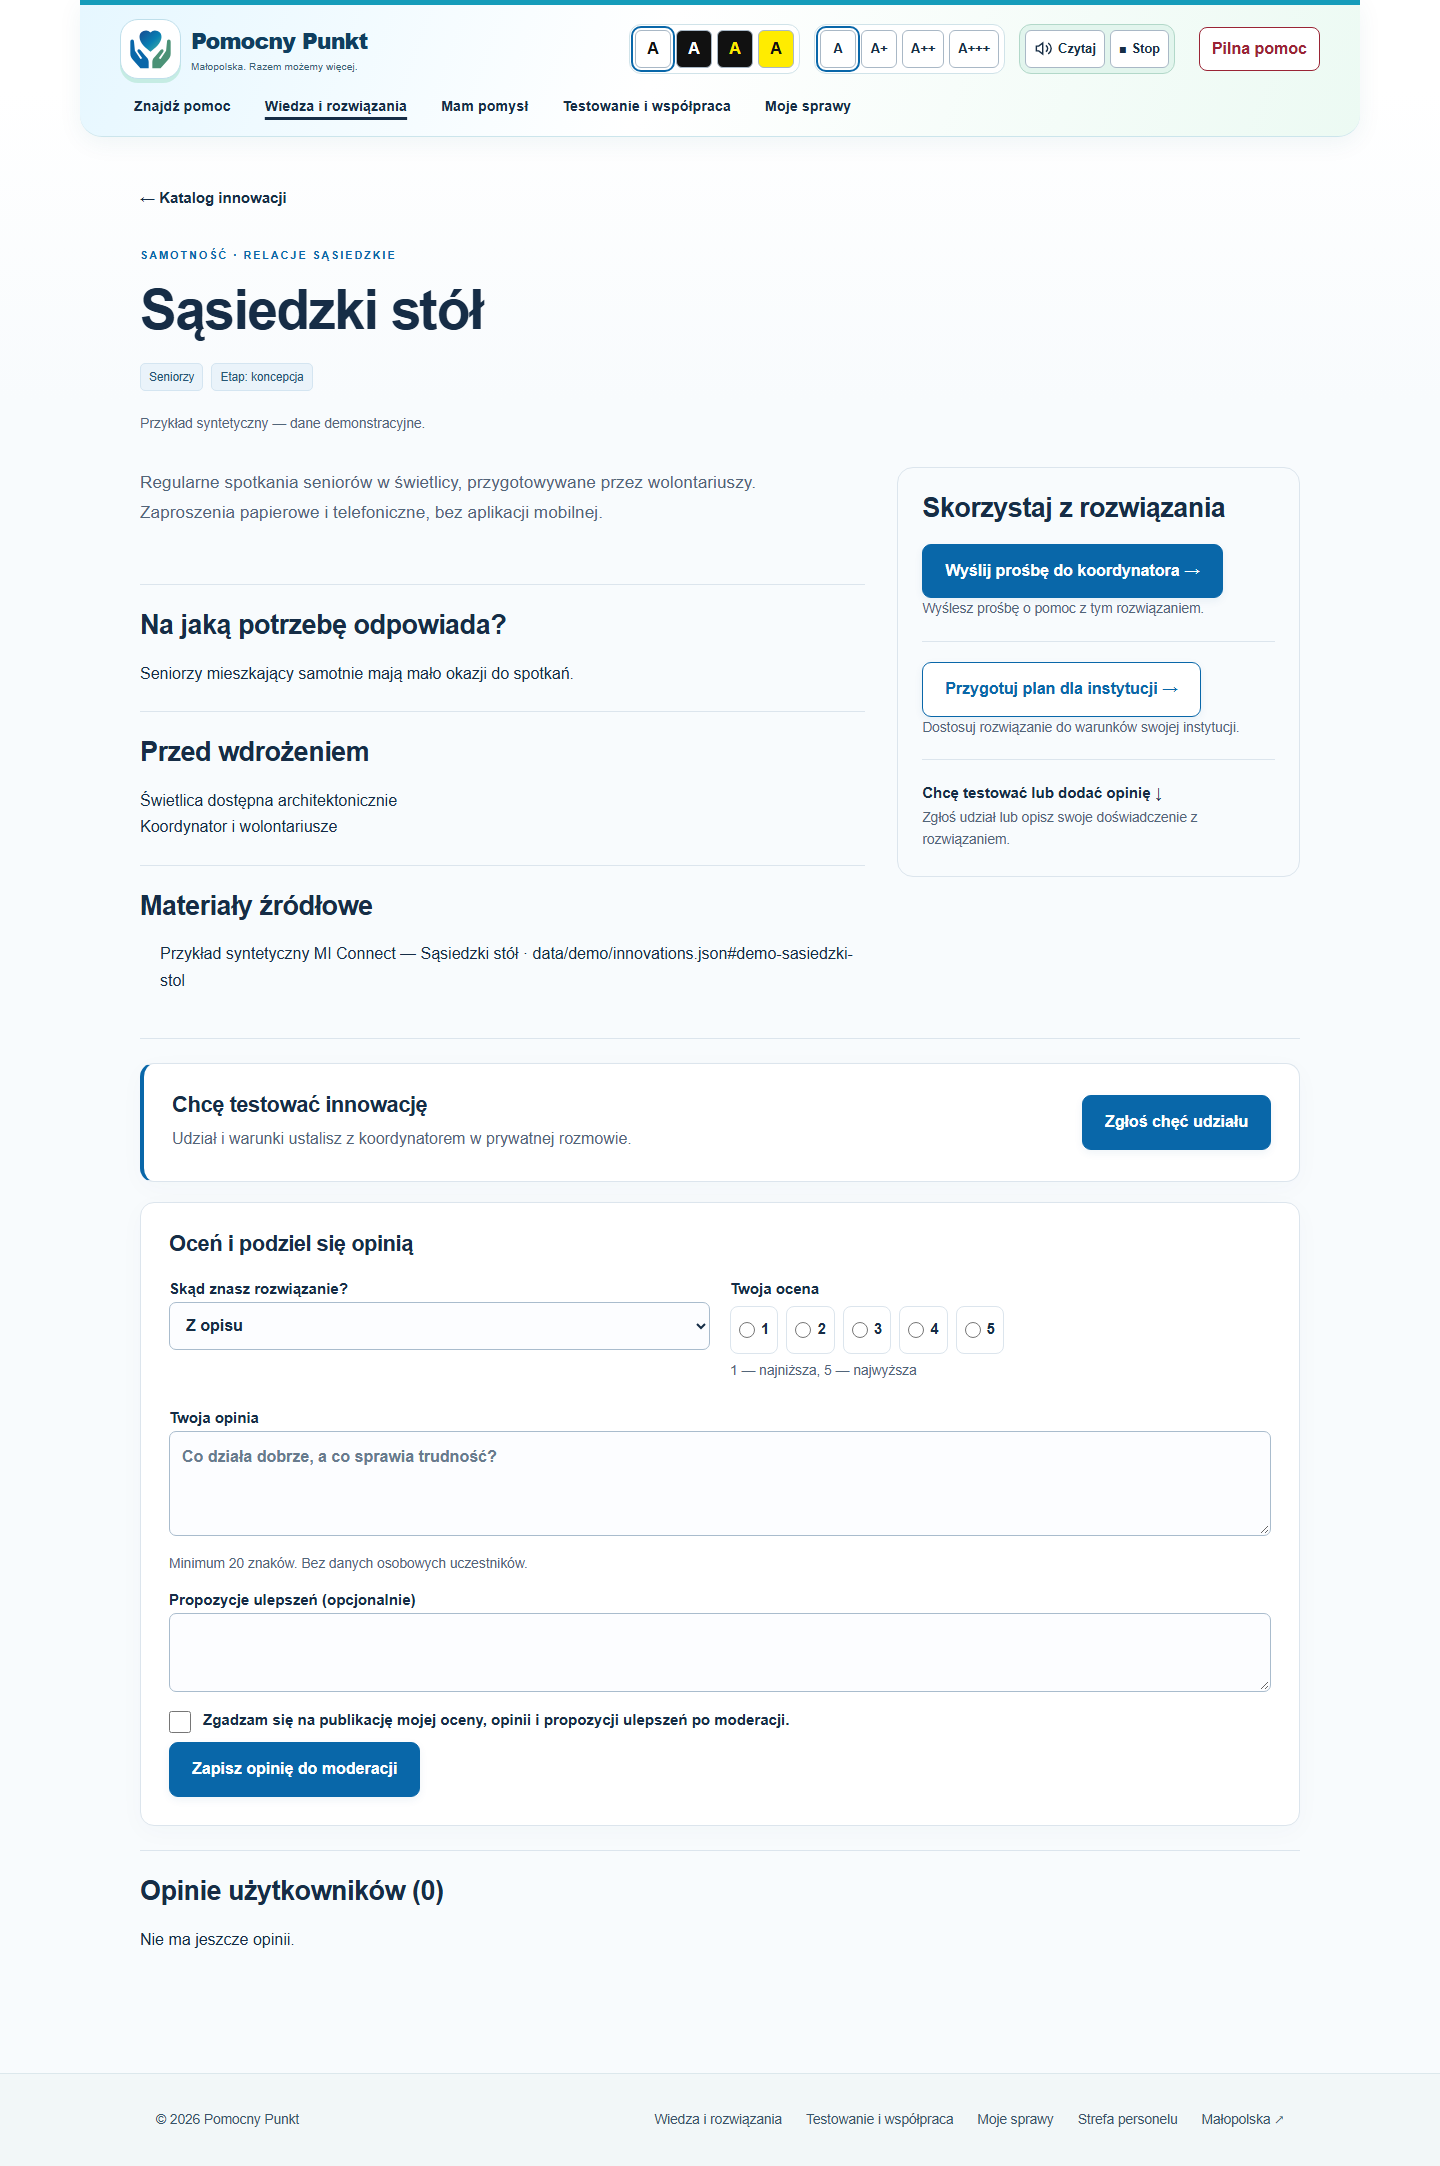
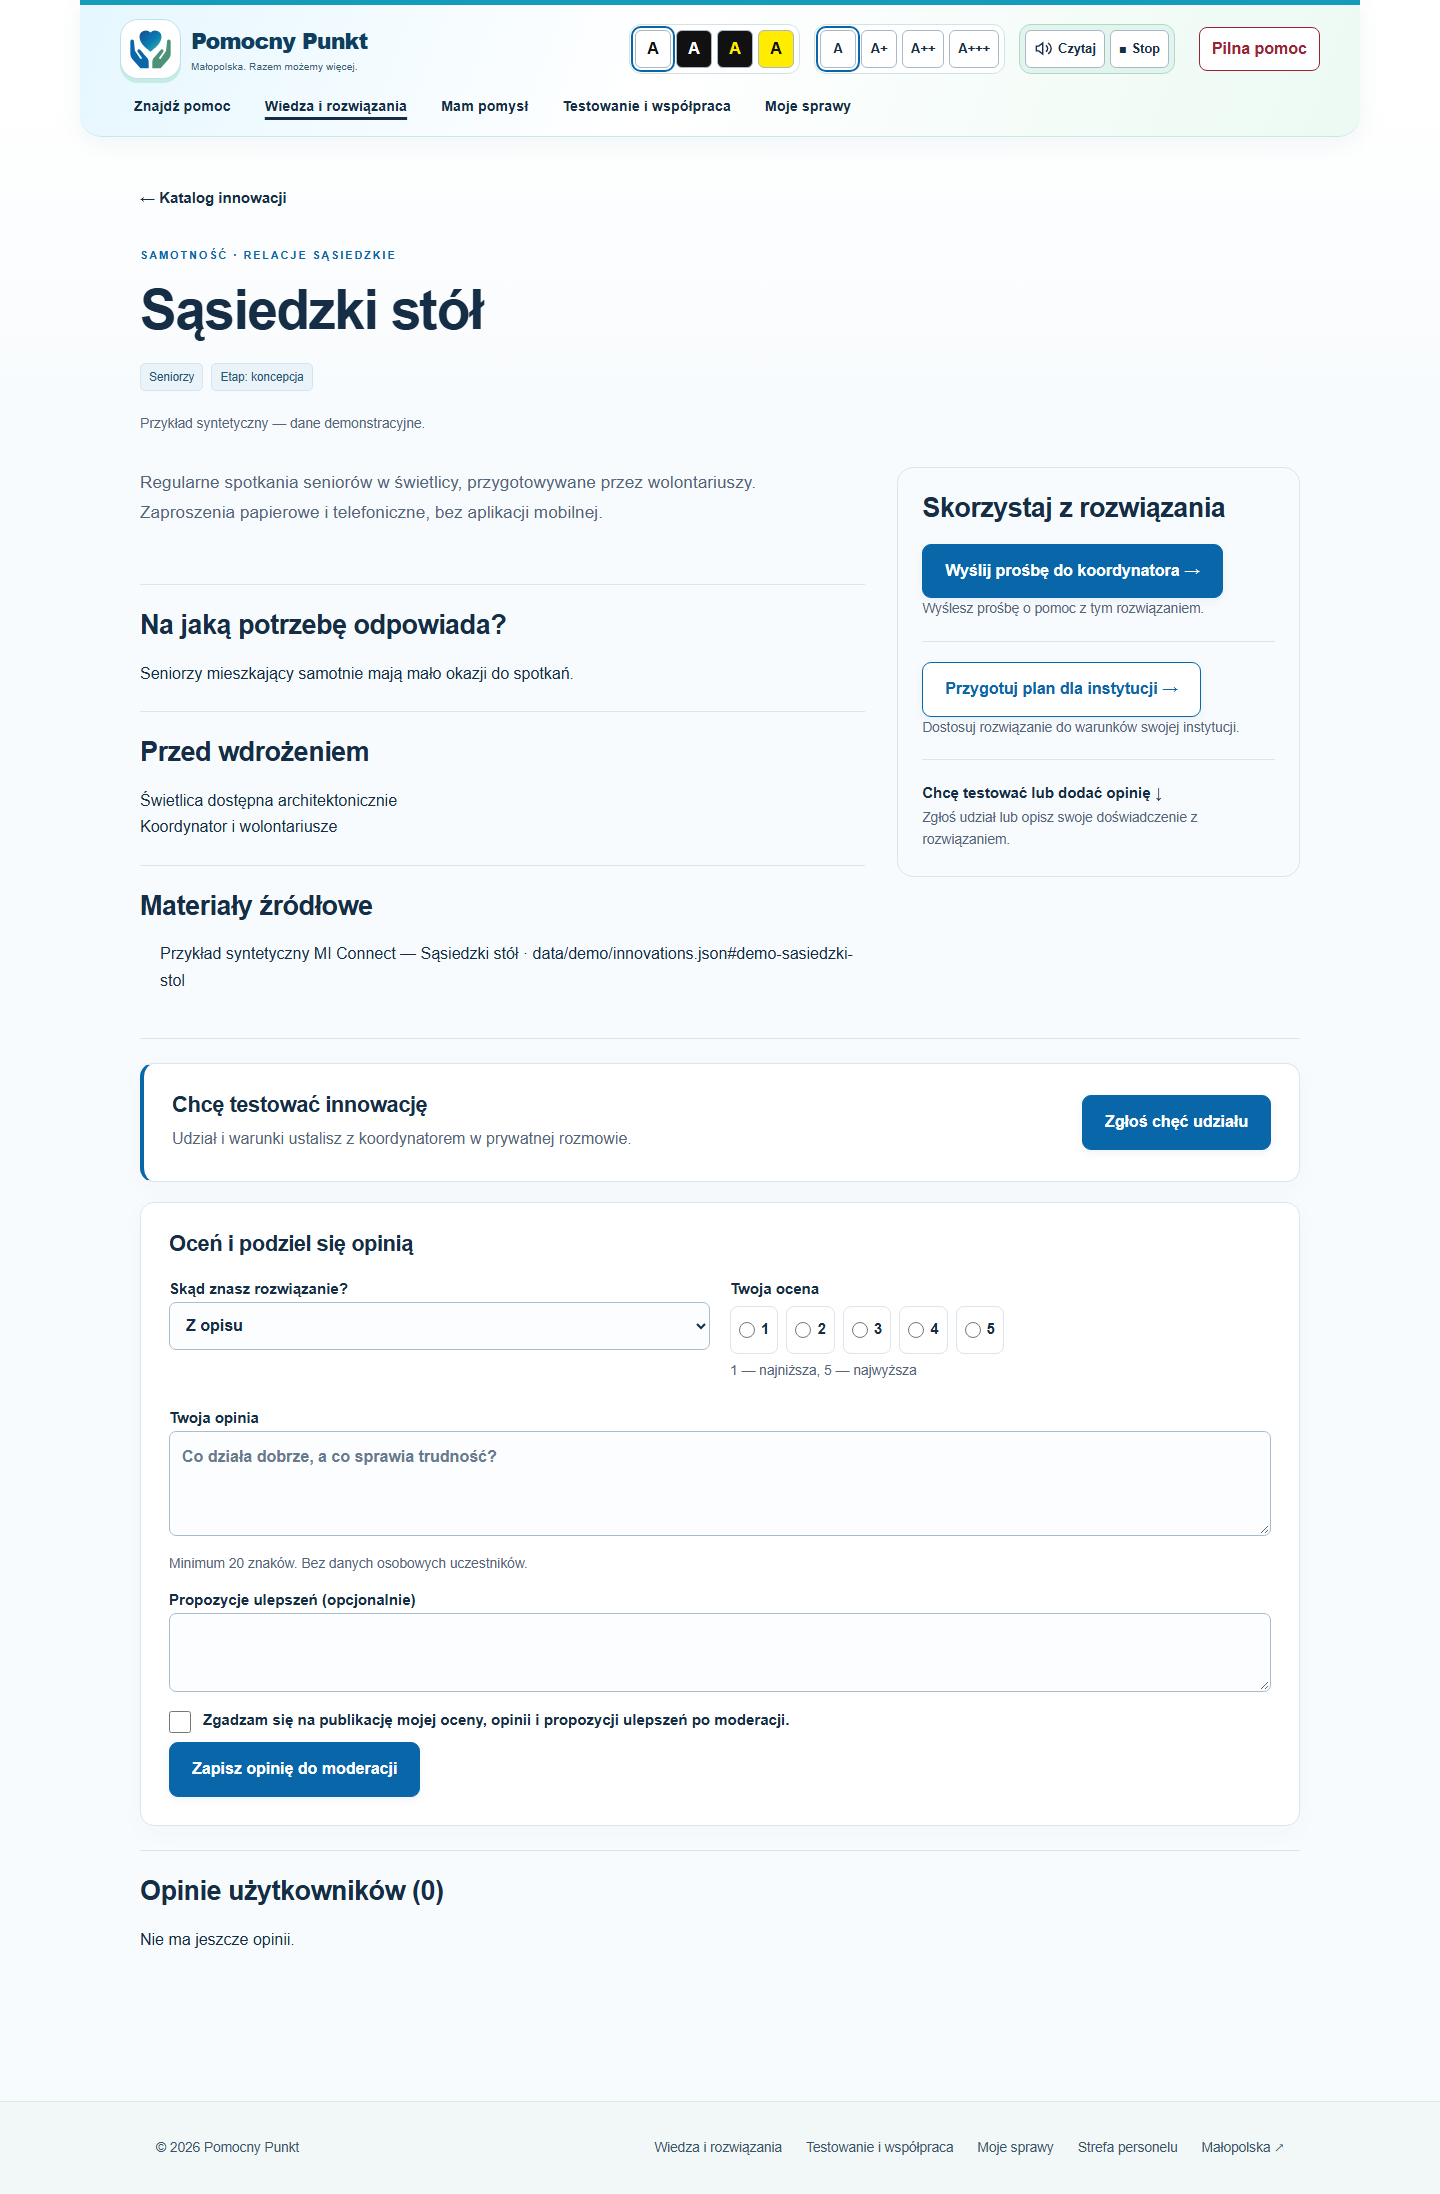
Prepare production support migration and refreshed layouts

diff --git a/docs/DEPLOYMENT.md b/docs/DEPLOYMENT.md
@@ -1,5 +1,18 @@
 # Запуск і підключення
 
+## Перший пріоритет — підготовка production, 2026-10-04
+
+Пакет навігації та прямих звернень об'єднано з `origin/master` 1c1bf41;
+функціональні виправлення та пагінація черг збережені. Потрібна міграція
+`0009_support_entry`, readiness перевіряє її. Контекст старих розмов збережено,
+нові приватні coordinator requests можуть мати лише мету підтримки.
+Перед міграцією `deploy/release.sh` тепер створює окремий backup Job через
+`deploy/render.mjs backup`, зберігає custom-format pg_dump у чинний backups PVC,
+перевіряє читання його змісту через pg_restore --list й чекає Complete.
+Невдалий backup зупиняє реліз до зміни схеми; нові права runner не потрібні.
+Цей backup доповнює чинний щоденний CronJob. Синтаксис bash та JSON manifest
+перевірено локально; фактичний backup підтверджується лише production Job.
+
 Актуальний функціональний реліз 04.10.2026 09:33: `d16ed07`,
 [Actions37185993820](https://github.com/ElJohne/innomatch/actions/runs/37185993820)
 SUCCESS. Збережено актуальний redesign master; нових migrations немає.
